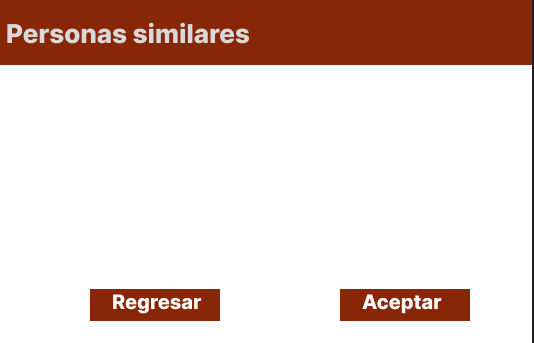
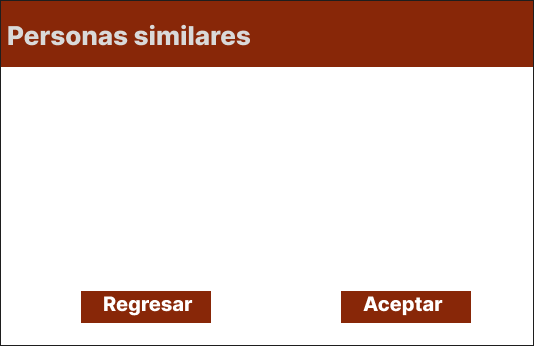
mas modifiacaciones
popopipopipo

diff --git a/Proyecto2/AgenciaPresentacion/src/main/java/GUI/Historial/TramiteHistorial.java b/Proyecto2/AgenciaPresentacion/src/main/java/GUI/Historial/TramiteHistorial.java
@@ -1,6 +1,6 @@
 /*
  * Click nbfs://nbhost/SystemFileSystem/Templates/Licenses/license-default.txt to change this license
- * Click nbfs://nbhost/SystemFileSystem/Templates/GUIForms/JFrame.java to edit this template
+ * Click nbfs://nbhost/SystemFileSystem/Templates/GUIForms/JPanel.java to edit this template
  */
 package GUI.Historial;
 
@@ -8,7 +8,7 @@ package GUI.Historial;
  *
  * @author Ximena
  */
-public class TramiteHistorial extends javax.swing.JFrame {
+public class TramiteHistorial extends javax.swing.JPanel {
 
     /**
      * Creates new form TramiteHistorial
@@ -28,83 +28,37 @@ public class TramiteHistorial extends javax.swing.JFrame {
 
         txtAnioNacimiento = new javax.swing.JTextField();
         txtNombre = new javax.swing.JTextField();
-        txtCurp = new javax.swing.JTextField();
-        jLabel2 = new javax.swing.JLabel();
+        txtCURP = new javax.swing.JTextField();
+        jLabel1 = new javax.swing.JLabel();
         botonRegresar = new javax.swing.JButton();
         botonAceptar = new javax.swing.JButton();
 
-        setDefaultCloseOperation(javax.swing.WindowConstants.EXIT_ON_CLOSE);
-        getContentPane().setLayout(new org.netbeans.lib.awtextra.AbsoluteLayout());
+        setLayout(new org.netbeans.lib.awtextra.AbsoluteLayout());
 
         txtAnioNacimiento.setBackground(new java.awt.Color(217, 217, 217));
-        getContentPane().add(txtAnioNacimiento, new org.netbeans.lib.awtextra.AbsoluteConstraints(180, 290, 170, 40));
+        add(txtAnioNacimiento, new org.netbeans.lib.awtextra.AbsoluteConstraints(190, 300, 160, 30));
 
         txtNombre.setBackground(new java.awt.Color(217, 217, 217));
-        txtNombre.addActionListener(new java.awt.event.ActionListener() {
-            public void actionPerformed(java.awt.event.ActionEvent evt) {
-                txtNombreActionPerformed(evt);
-            }
-        });
-        getContentPane().add(txtNombre, new org.netbeans.lib.awtextra.AbsoluteConstraints(180, 210, 170, 40));
+        add(txtNombre, new org.netbeans.lib.awtextra.AbsoluteConstraints(190, 210, 160, 30));
 
-        txtCurp.setBackground(new java.awt.Color(217, 217, 217));
-        getContentPane().add(txtCurp, new org.netbeans.lib.awtextra.AbsoluteConstraints(180, 130, 170, 40));
+        txtCURP.setBackground(new java.awt.Color(217, 217, 217));
+        add(txtCURP, new org.netbeans.lib.awtextra.AbsoluteConstraints(190, 130, 160, 30));
 
-        jLabel2.setIcon(new javax.swing.ImageIcon("C:\\Users\\Ximena\\Documents\\GitHub\\BD-Proyecto-2\\Proyecto2\\AgenciaPresentacion\\src\\main\\resources\\Imagenes\\TramiteHistorialCap.PNG")); // NOI18N
-        getContentPane().add(jLabel2, new org.netbeans.lib.awtextra.AbsoluteConstraints(0, 0, -1, -1));
-        getContentPane().add(botonRegresar, new org.netbeans.lib.awtextra.AbsoluteConstraints(30, 380, 130, 40));
+        jLabel1.setIcon(new javax.swing.ImageIcon("C:\\Users\\Ximena\\Documents\\GitHub\\BD-Proyecto-2\\Proyecto2\\AgenciaPresentacion\\src\\main\\resources\\Imagenes\\TramiteHistorialCap.PNG")); // NOI18N
+        add(jLabel1, new org.netbeans.lib.awtextra.AbsoluteConstraints(0, 0, -1, -1));
+        add(botonRegresar, new org.netbeans.lib.awtextra.AbsoluteConstraints(30, 380, 130, 30));
 
         botonAceptar.setText("jButton1");
-        getContentPane().add(botonAceptar, new org.netbeans.lib.awtextra.AbsoluteConstraints(220, 380, 130, 30));
-
-        pack();
+        add(botonAceptar, new org.netbeans.lib.awtextra.AbsoluteConstraints(220, 380, 130, 30));
     }// </editor-fold>//GEN-END:initComponents
 
-    private void txtNombreActionPerformed(java.awt.event.ActionEvent evt) {//GEN-FIRST:event_txtNombreActionPerformed
-        // TODO add your handling code here:
-    }//GEN-LAST:event_txtNombreActionPerformed
-
-    /**
-     * @param args the command line arguments
-     */
-//    public static void main(String args[]) {
-//        /* Set the Nimbus look and feel */
-//        //<editor-fold defaultstate="collapsed" desc=" Look and feel setting code (optional) ">
-//        /* If Nimbus (introduced in Java SE 6) is not available, stay with the default look and feel.
-//         * For details see http://download.oracle.com/javase/tutorial/uiswing/lookandfeel/plaf.html 
-//         */
-//        try {
-//            for (javax.swing.UIManager.LookAndFeelInfo info : javax.swing.UIManager.getInstalledLookAndFeels()) {
-//                if ("Nimbus".equals(info.getName())) {
-//                    javax.swing.UIManager.setLookAndFeel(info.getClassName());
-//                    break;
-//                }
-//            }
-//        } catch (ClassNotFoundException ex) {
-//            java.util.logging.Logger.getLogger(TramiteHistorial.class.getName()).log(java.util.logging.Level.SEVERE, null, ex);
-//        } catch (InstantiationException ex) {
-//            java.util.logging.Logger.getLogger(TramiteHistorial.class.getName()).log(java.util.logging.Level.SEVERE, null, ex);
-//        } catch (IllegalAccessException ex) {
-//            java.util.logging.Logger.getLogger(TramiteHistorial.class.getName()).log(java.util.logging.Level.SEVERE, null, ex);
-//        } catch (javax.swing.UnsupportedLookAndFeelException ex) {
-//            java.util.logging.Logger.getLogger(TramiteHistorial.class.getName()).log(java.util.logging.Level.SEVERE, null, ex);
-//        }
-//        //</editor-fold>
-//
-//        /* Create and display the form */
-//        java.awt.EventQueue.invokeLater(new Runnable() {
-//            public void run() {
-//                new TramiteHistorial().setVisible(true);
-//            }
-//        });
-//    }
 
     // Variables declaration - do not modify//GEN-BEGIN:variables
     private javax.swing.JButton botonAceptar;
     private javax.swing.JButton botonRegresar;
-    private javax.swing.JLabel jLabel2;
+    private javax.swing.JLabel jLabel1;
     private javax.swing.JTextField txtAnioNacimiento;
-    private javax.swing.JTextField txtCurp;
+    private javax.swing.JTextField txtCURP;
     private javax.swing.JTextField txtNombre;
     // End of variables declaration//GEN-END:variables
 }

diff --git a/Proyecto2/AgenciaPresentacion/src/main/java/GUI/Historial/PersonasSimilares.java b/Proyecto2/AgenciaPresentacion/src/main/java/GUI/Historial/PersonasSimilares.java
@@ -1,6 +1,6 @@
 /*
  * Click nbfs://nbhost/SystemFileSystem/Templates/Licenses/license-default.txt to change this license
- * Click nbfs://nbhost/SystemFileSystem/Templates/GUIForms/JFrame.java to edit this template
+ * Click nbfs://nbhost/SystemFileSystem/Templates/GUIForms/JPanel.java to edit this template
  */
 package GUI.Historial;
 
@@ -8,7 +8,7 @@ package GUI.Historial;
  *
  * @author Ximena
  */
-public class PersonasSimilares extends javax.swing.JFrame {
+public class PersonasSimilares extends javax.swing.JPanel {
 
     /**
      * Creates new form PersonasSimilares
@@ -26,68 +26,26 @@ public class PersonasSimilares extends javax.swing.JFrame {
     // <editor-fold defaultstate="collapsed" desc="Generated Code">//GEN-BEGIN:initComponents
     private void initComponents() {
 
-        jButton1 = new javax.swing.JButton();
         jLabel1 = new javax.swing.JLabel();
-        botonAceptar = new javax.swing.JButton();
         botonRegresar = new javax.swing.JButton();
+        botonAceptar = new javax.swing.JButton();
 
-        jButton1.setText("jButton1");
-
-        setDefaultCloseOperation(javax.swing.WindowConstants.EXIT_ON_CLOSE);
-        getContentPane().setLayout(new org.netbeans.lib.awtextra.AbsoluteLayout());
+        setLayout(new org.netbeans.lib.awtextra.AbsoluteLayout());
 
         jLabel1.setIcon(new javax.swing.ImageIcon("C:\\Users\\Ximena\\Documents\\GitHub\\BD-Proyecto-2\\Proyecto2\\AgenciaPresentacion\\src\\main\\resources\\Imagenes\\PersonasSimilaresCap.PNG")); // NOI18N
-        jLabel1.setText("jLabel1");
-        getContentPane().add(jLabel1, new org.netbeans.lib.awtextra.AbsoluteConstraints(0, 0, -1, -1));
+        add(jLabel1, new org.netbeans.lib.awtextra.AbsoluteConstraints(0, 0, -1, -1));
 
-        botonAceptar.setText("jButton2");
-        getContentPane().add(botonAceptar, new org.netbeans.lib.awtextra.AbsoluteConstraints(320, 290, 150, 30));
+        botonRegresar.setText("jButton1");
+        add(botonRegresar, new org.netbeans.lib.awtextra.AbsoluteConstraints(80, 290, 140, 30));
 
-        botonRegresar.setText("jButton2");
-        getContentPane().add(botonRegresar, new org.netbeans.lib.awtextra.AbsoluteConstraints(70, 290, 150, 30));
-
-        pack();
+        botonAceptar.setText("jButton1");
+        add(botonAceptar, new org.netbeans.lib.awtextra.AbsoluteConstraints(340, 290, 130, 30));
     }// </editor-fold>//GEN-END:initComponents
 
-    /**
-     * @param args the command line arguments
-//     */
-//    public static void main(String args[]) {
-//        /* Set the Nimbus look and feel */
-//        //<editor-fold defaultstate="collapsed" desc=" Look and feel setting code (optional) ">
-//        /* If Nimbus (introduced in Java SE 6) is not available, stay with the default look and feel.
-//         * For details see http://download.oracle.com/javase/tutorial/uiswing/lookandfeel/plaf.html 
-//         */
-//        try {
-//            for (javax.swing.UIManager.LookAndFeelInfo info : javax.swing.UIManager.getInstalledLookAndFeels()) {
-//                if ("Nimbus".equals(info.getName())) {
-//                    javax.swing.UIManager.setLookAndFeel(info.getClassName());
-//                    break;
-//                }
-//            }
-//        } catch (ClassNotFoundException ex) {
-//            java.util.logging.Logger.getLogger(PersonasSimilares.class.getName()).log(java.util.logging.Level.SEVERE, null, ex);
-//        } catch (InstantiationException ex) {
-//            java.util.logging.Logger.getLogger(PersonasSimilares.class.getName()).log(java.util.logging.Level.SEVERE, null, ex);
-//        } catch (IllegalAccessException ex) {
-//            java.util.logging.Logger.getLogger(PersonasSimilares.class.getName()).log(java.util.logging.Level.SEVERE, null, ex);
-//        } catch (javax.swing.UnsupportedLookAndFeelException ex) {
-//            java.util.logging.Logger.getLogger(PersonasSimilares.class.getName()).log(java.util.logging.Level.SEVERE, null, ex);
-//        }
-//        //</editor-fold>
-//
-//        /* Create and display the form */
-//        java.awt.EventQueue.invokeLater(new Runnable() {
-//            public void run() {
-//                new PersonasSimilares().setVisible(true);
-//            }
-//        });
-//    }
 
     // Variables declaration - do not modify//GEN-BEGIN:variables
     private javax.swing.JButton botonAceptar;
     private javax.swing.JButton botonRegresar;
-    private javax.swing.JButton jButton1;
     private javax.swing.JLabel jLabel1;
     // End of variables declaration//GEN-END:variables
 }

diff --git a/Proyecto2/AgenciaPresentacion/src/main/java/GUI/Historial/HistorialGenerado.java b/Proyecto2/AgenciaPresentacion/src/main/java/GUI/Historial/HistorialGenerado.java
@@ -1,6 +1,6 @@
 /*
  * Click nbfs://nbhost/SystemFileSystem/Templates/Licenses/license-default.txt to change this license
- * Click nbfs://nbhost/SystemFileSystem/Templates/GUIForms/JFrame.java to edit this template
+ * Click nbfs://nbhost/SystemFileSystem/Templates/GUIForms/JPanel.java to edit this template
  */
 package GUI.Historial;
 
@@ -8,7 +8,7 @@ package GUI.Historial;
  *
  * @author Ximena
  */
-public class HistorialGenerado extends javax.swing.JFrame {
+public class HistorialGenerado extends javax.swing.JPanel {
 
     /**
      * Creates new form HistorialGenerado
@@ -27,52 +27,20 @@ public class HistorialGenerado extends javax.swing.JFrame {
     private void initComponents() {
 
         jLabel1 = new javax.swing.JLabel();
+        botonRegresarMenu = new javax.swing.JButton();
 
-        setDefaultCloseOperation(javax.swing.WindowConstants.EXIT_ON_CLOSE);
-        getContentPane().setLayout(new org.netbeans.lib.awtextra.AbsoluteLayout());
+        setLayout(new org.netbeans.lib.awtextra.AbsoluteLayout());
 
         jLabel1.setIcon(new javax.swing.ImageIcon("C:\\Users\\Ximena\\Documents\\GitHub\\BD-Proyecto-2\\Proyecto2\\AgenciaPresentacion\\src\\main\\resources\\Imagenes\\HistorialGeneradoCap.PNG")); // NOI18N
-        getContentPane().add(jLabel1, new org.netbeans.lib.awtextra.AbsoluteConstraints(0, 0, -1, -1));
+        add(jLabel1, new org.netbeans.lib.awtextra.AbsoluteConstraints(0, 0, -1, -1));
 
-        pack();
+        botonRegresarMenu.setText("jButton1");
+        add(botonRegresarMenu, new org.netbeans.lib.awtextra.AbsoluteConstraints(150, 290, 230, 30));
     }// </editor-fold>//GEN-END:initComponents
 
-//    /**
-//     * @param args the command line arguments
-//     */
-//    public static void main(String args[]) {
-//        /* Set the Nimbus look and feel */
-//        //<editor-fold defaultstate="collapsed" desc=" Look and feel setting code (optional) ">
-//        /* If Nimbus (introduced in Java SE 6) is not available, stay with the default look and feel.
-//         * For details see http://download.oracle.com/javase/tutorial/uiswing/lookandfeel/plaf.html 
-//         */
-//        try {
-//            for (javax.swing.UIManager.LookAndFeelInfo info : javax.swing.UIManager.getInstalledLookAndFeels()) {
-//                if ("Nimbus".equals(info.getName())) {
-//                    javax.swing.UIManager.setLookAndFeel(info.getClassName());
-//                    break;
-//                }
-//            }
-//        } catch (ClassNotFoundException ex) {
-//            java.util.logging.Logger.getLogger(HistorialGenerado.class.getName()).log(java.util.logging.Level.SEVERE, null, ex);
-//        } catch (InstantiationException ex) {
-//            java.util.logging.Logger.getLogger(HistorialGenerado.class.getName()).log(java.util.logging.Level.SEVERE, null, ex);
-//        } catch (IllegalAccessException ex) {
-//            java.util.logging.Logger.getLogger(HistorialGenerado.class.getName()).log(java.util.logging.Level.SEVERE, null, ex);
-//        } catch (javax.swing.UnsupportedLookAndFeelException ex) {
-//            java.util.logging.Logger.getLogger(HistorialGenerado.class.getName()).log(java.util.logging.Level.SEVERE, null, ex);
-//        }
-//        //</editor-fold>
-//
-//        /* Create and display the form */
-//        java.awt.EventQueue.invokeLater(new Runnable() {
-//            public void run() {
-//                new HistorialGenerado().setVisible(true);
-//            }
-//        });
-//    }
 
     // Variables declaration - do not modify//GEN-BEGIN:variables
+    private javax.swing.JButton botonRegresarMenu;
     private javax.swing.JLabel jLabel1;
     // End of variables declaration//GEN-END:variables
 }

diff --git a/Proyecto2/AgenciaPresentacion/src/main/java/GUI/ControladorVentana.java b/Proyecto2/AgenciaPresentacion/src/main/java/GUI/ControladorVentana.java
@@ -4,6 +4,9 @@ import DTOs.AutomovilDTO;
 import DTOs.LicenciaDTO;
 import DTOs.PlacaDTO;
 import Entidades.Automovil;
+import GUI.Historial.HistorialGenerado;
+import GUI.Historial.PersonasSimilares;
+import GUI.Historial.TramiteHistorial;
 import GUI.Licencia.LicenciaGenerada;
 import GUI.Licencia.TramiteLicenciaMenu;
 import GUI.Licencia.VigenciaLicencia;
@@ -176,6 +179,27 @@ public class ControladorVentana extends javax.swing.JFrame {
         panelActual = reporteGenerado;
     }
 
+    public void cambiarVistaHistorial(){
+        limpiarFrame();
+        TramiteHistorial historial = new TramiteHistorial();
+        ponerEnJFrame(historial);
+        panelActual = historial;
+    }
+    
+    public void cambiarVistaPersonasSimilares(){
+         limpiarFrame();
+        PersonasSimilares personasSimi = new PersonasSimilares();
+        ponerEnJFrame(personasSimi);
+        panelActual = personasSimi;
+    }
+    
+    public void cambiarVistaHistorialGenerado(){
+        limpiarFrame();
+        HistorialGenerado historialGenerado = new HistorialGenerado();
+        ponerEnJFrame(historialGenerado);
+        panelActual = historialGenerado;
+    }
+    
     /**
      * Método para agregar un panel a la ventana. Este método agrega el panel
      * especificado a la ventana, lo posiciona y ajusta su tamaño
